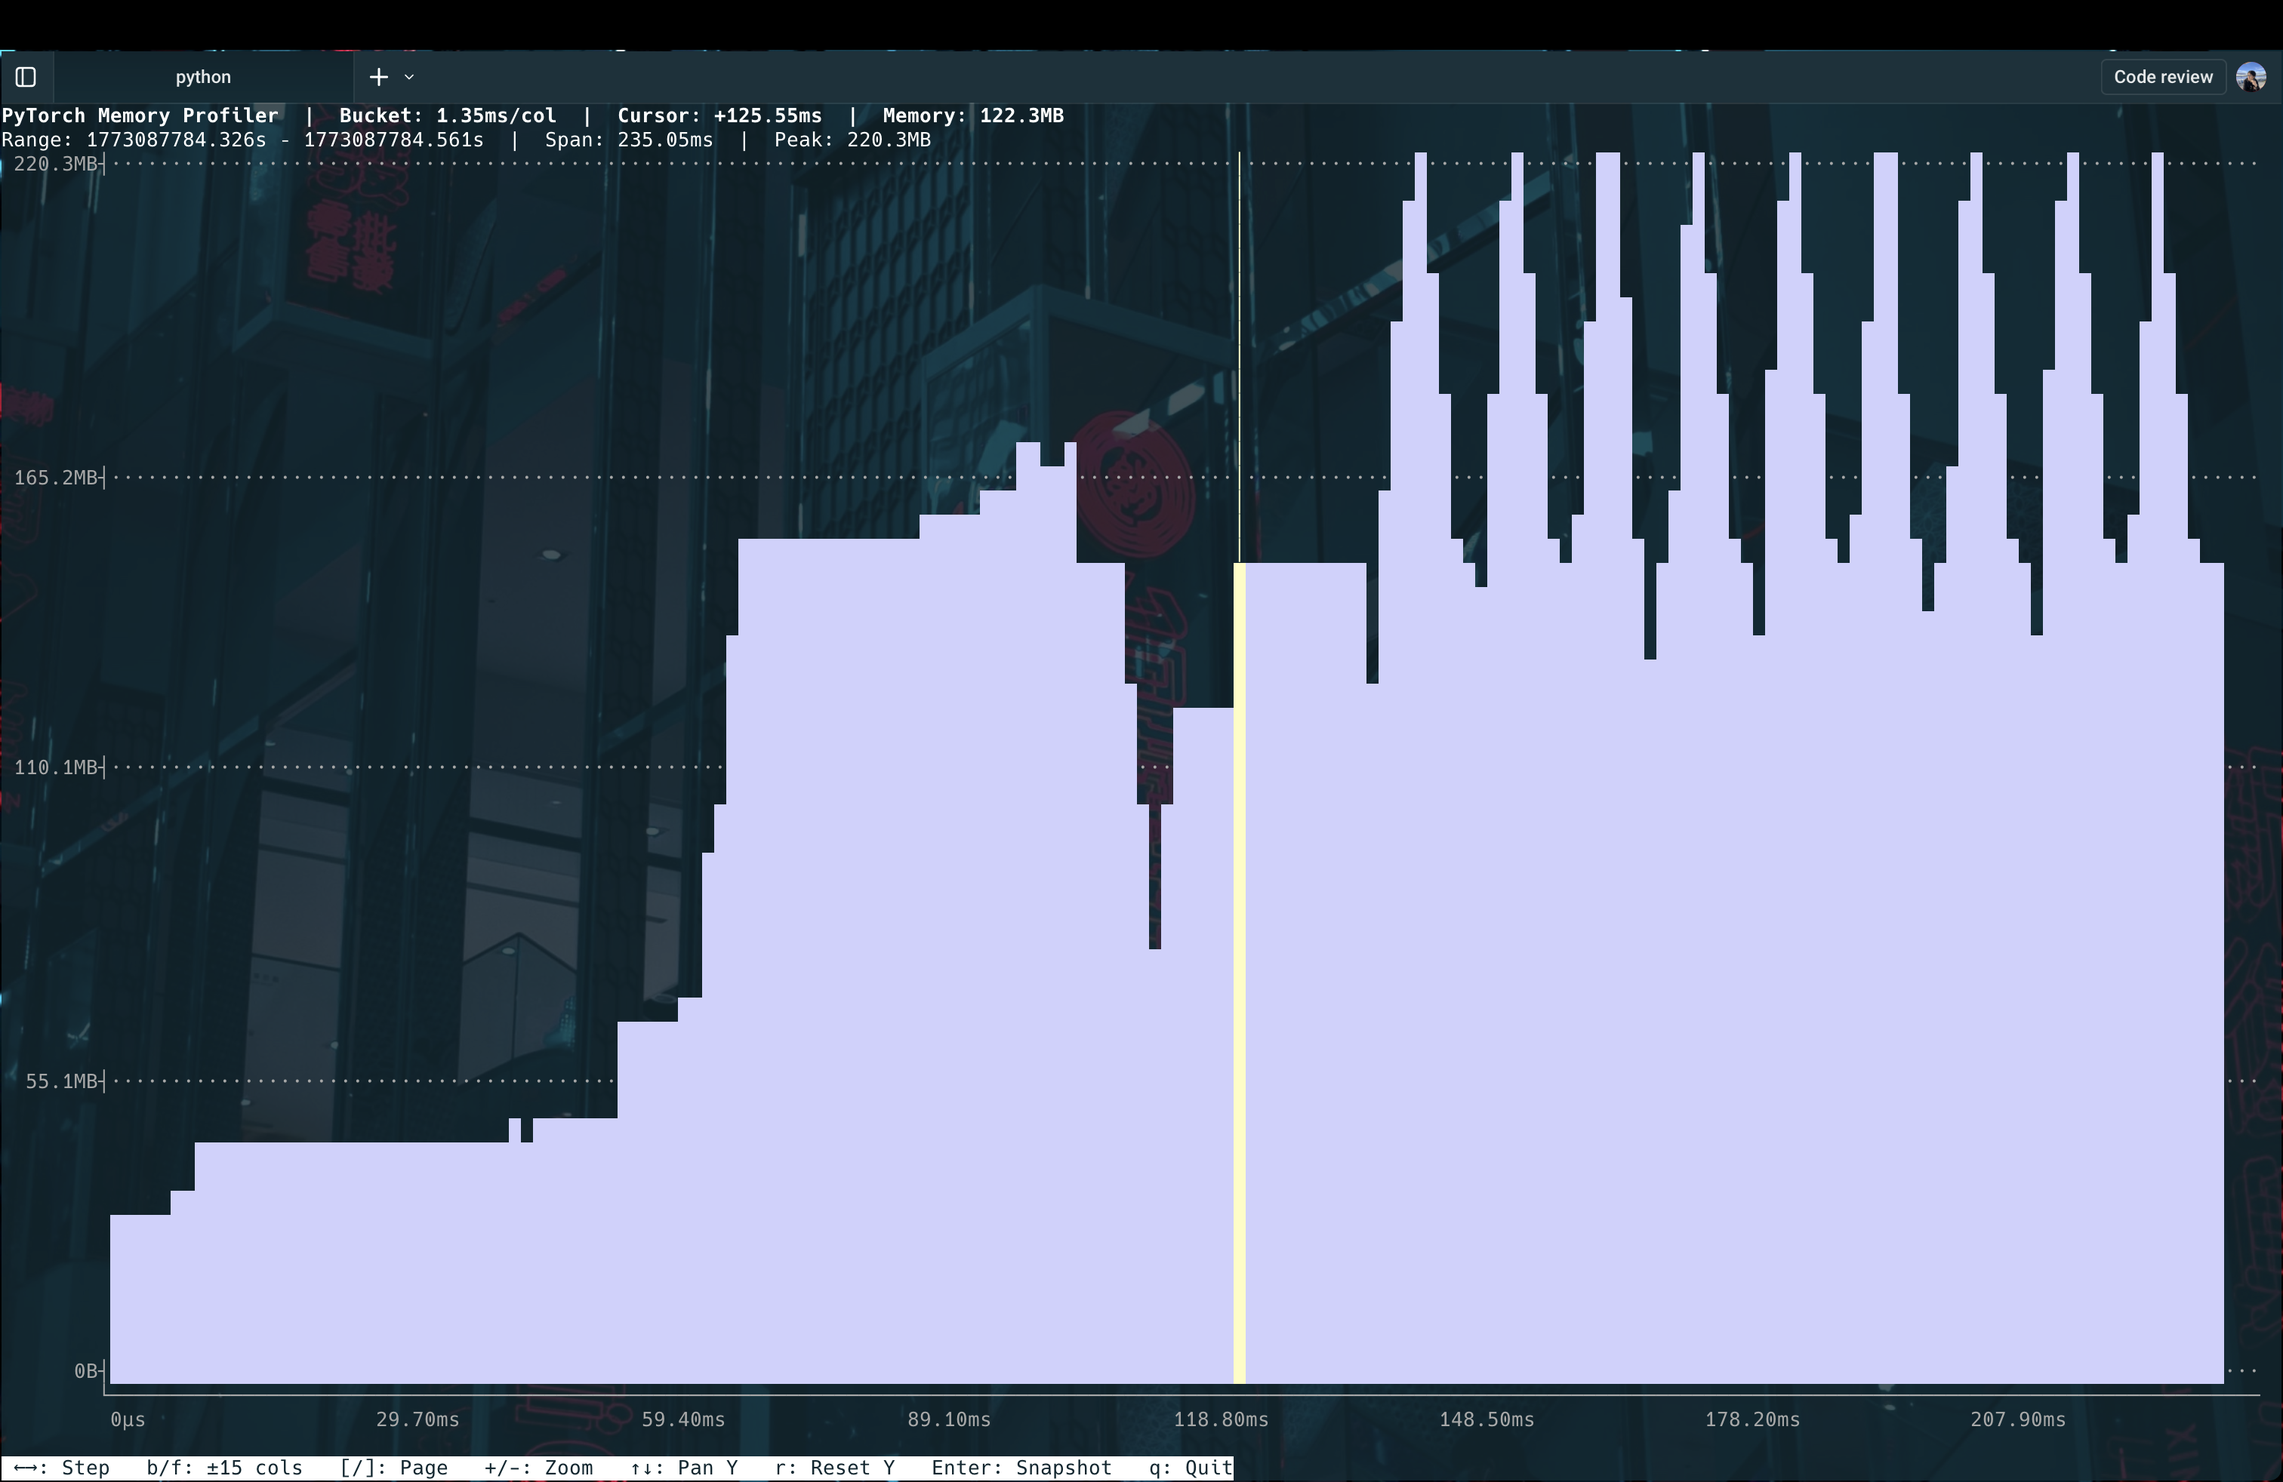
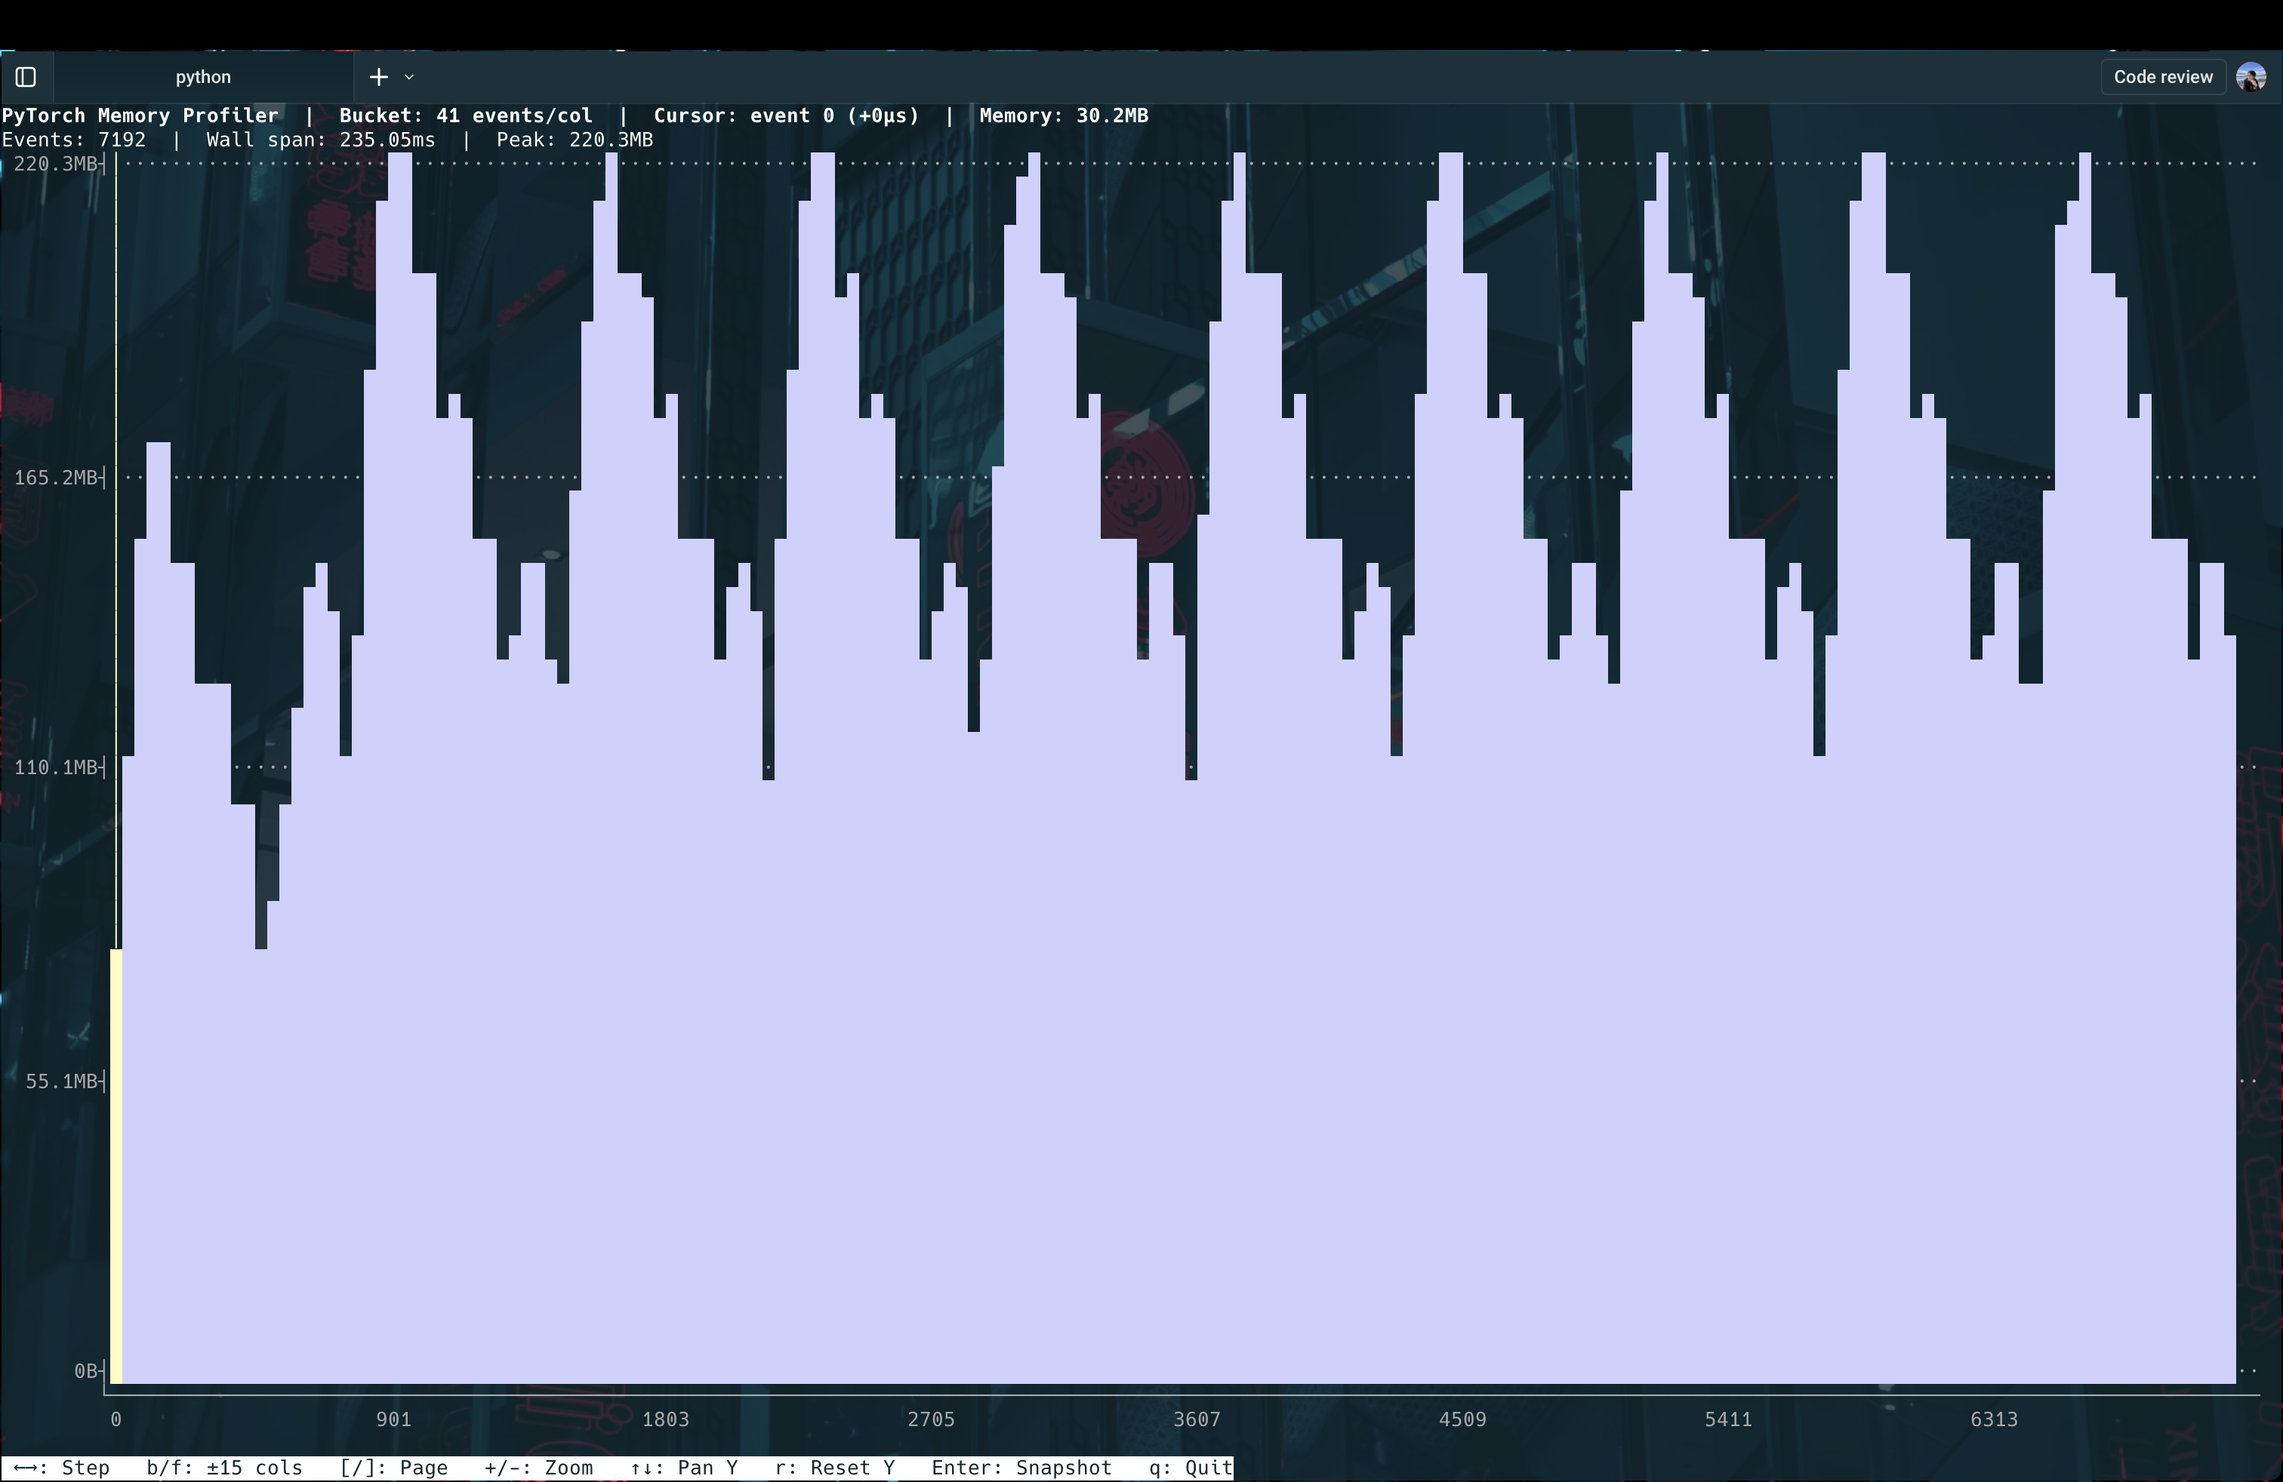
fix

diff --git a/memory_profiler_cli.py b/memory_profiler_cli.py
@@ -60,16 +60,22 @@ class MemoryProfileData:
     source file's mtime changes.
     """
 
-    CACHE_VERSION = 3
+    CACHE_VERSION = 5
 
     def __init__(self, path: str):
         self.path = path
         self.allocations: list = []
+        # timeline_times  = event indices 0, 1, 2, … (like PyTorch's JS viz)
+        # timeline_times_us = corresponding wall-clock timestamps in µs (for display)
         self.timeline_times: list = []
+        self.timeline_times_us: list = []
         self.timeline_memory: list = []
-        self.min_time: int = 0
-        self.max_time: int = 0
+        self.min_time: int = 0   # always 0 (first event index)
+        self.max_time: int = 0   # N-1 (last event index)
         self.max_memory: int = 0
+        self.initial_memory: int = 0
+        self.wall_min_us: int = 0   # actual wall-clock start (µs) for display
+        self.wall_max_us: int = 0   # actual wall-clock end (µs) for display
         self.from_cache: bool = False
 
         cache_path = self._cache_path()
@@ -98,12 +104,16 @@ class MemoryProfileData:
                 return False
             if cache.get('source_mtime') != src_mtime:
                 return False
-            self.allocations    = cache['allocations']
-            self.timeline_times = cache['timeline_times']
-            self.timeline_memory= cache['timeline_memory']
-            self.min_time       = cache['min_time']
-            self.max_time       = cache['max_time']
-            self.max_memory     = cache['max_memory']
+            self.allocations       = cache['allocations']
+            self.timeline_times    = cache['timeline_times']
+            self.timeline_times_us = cache['timeline_times_us']
+            self.timeline_memory   = cache['timeline_memory']
+            self.min_time          = cache['min_time']
+            self.max_time          = cache['max_time']
+            self.max_memory        = cache['max_memory']
+            self.initial_memory    = cache['initial_memory']
+            self.wall_min_us       = cache['wall_min_us']
+            self.wall_max_us       = cache['wall_max_us']
             return True
         except Exception:
             return False
@@ -113,12 +123,16 @@ class MemoryProfileData:
             cache = {
                 'version':      self.CACHE_VERSION,
                 'source_mtime': os.path.getmtime(self.path),
-                'allocations':  self.allocations,
-                'timeline_times':  self.timeline_times,
-                'timeline_memory': self.timeline_memory,
-                'min_time':  self.min_time,
-                'max_time':  self.max_time,
-                'max_memory': self.max_memory,
+                'allocations':      self.allocations,
+                'timeline_times':   self.timeline_times,
+                'timeline_times_us': self.timeline_times_us,
+                'timeline_memory':  self.timeline_memory,
+                'min_time':         self.min_time,
+                'max_time':         self.max_time,
+                'max_memory':       self.max_memory,
+                'initial_memory':   self.initial_memory,
+                'wall_min_us':      self.wall_min_us,
+                'wall_max_us':      self.wall_max_us,
             }
             with open(cache_path, 'wb') as f:
                 pickle.dump(cache, f)
@@ -134,18 +148,17 @@ class MemoryProfileData:
             if flat:
                 device_traces = [flat]
 
-        # Collect alloc and free_requested events only.
-        # PyTorch caching-allocator lifecycle per tensor:
+        # Collect alloc and free_completed events, matching PyTorch's MemoryViz.js:
         #   alloc          → tensor carved from cache pool  (+size to allocated)
-        #   free_requested → Python releases tensor          (-size from allocated)
-        #   free_completed → block returned to CUDA driver  (cache-layer event, skip)
+        #   free_completed → block returned to CUDA pool    (-size from allocated)
+        # (free_requested is intentionally skipped, matching the JS behaviour.)
         events = []
         synthetic_time = 0
 
         for device_idx, trace in enumerate(device_traces):
             for event in trace:
                 action = event.get('action', '')
-                if action not in ('alloc', 'free_requested'):
+                if action not in ('alloc', 'free_completed'):
                     continue
                 size   = event.get('size', 0)
                 addr   = event.get('addr', 0)
@@ -164,6 +177,7 @@ class MemoryProfileData:
         # ── Establish baseline from segments ──────────────────────────────────
         # `segments` is the ground-truth final state.  Derive initial_memory so
         # that replaying the trace from it lands exactly on final_allocated.
+        # We use b['size'] (allocator-rounded) consistently with event sizes.
         def _seg_allocated(seg):
             if 'allocated_size' in seg:
                 return seg['allocated_size']
@@ -174,30 +188,44 @@ class MemoryProfileData:
         net_from_trace  = sum(size if act == 'alloc' else -size
                               for _, _, size, _, _, act in events)
         initial_memory  = max(0, final_allocated - net_from_trace)
+        self.initial_memory = initial_memory
 
-        # ── Replay ────────────────────────────────────────────────────────────
+        # ── Replay using event INDEX as the x-axis (matching PyTorch JS) ──────
+        # PyTorch's MemoryViz.js uses a discrete "timestep" counter (one per
+        # event) rather than wall-clock time.  This gives uniform horizontal
+        # spacing so forward/backward passes look proportional regardless of
+        # the actual elapsed time of each operation.
         active: dict = {}   # addr -> Allocation  (in-trace allocs only)
         current_memory = initial_memory
 
-        for time_us, addr, size, frames, device, action in events:
+        # Record the state BEFORE the first event (event index -1) so the
+        # initial baseline is visible at the very left of the chart.
+        self.timeline_times.append(-1)
+        self.timeline_times_us.append(events[0][0])   # wall time of first event
+        self.timeline_memory.append(initial_memory)
+
+        for event_idx, (time_us, addr, size, frames, device, action) in enumerate(events):
             if action == 'alloc':
-                alloc = Allocation(addr, size, time_us, frames, device)
+                alloc = Allocation(addr, size, event_idx, frames, device)
                 active[addr] = alloc
                 self.allocations.append(alloc)
                 current_memory += size
-            elif action == 'free_requested':
+            elif action == 'free_completed':
                 if addr in active:
-                    active[addr].time_free = time_us
+                    active[addr].time_free = event_idx
                     del active[addr]
                 current_memory = max(0, current_memory - size)
 
-            self.timeline_times.append(time_us)
+            self.timeline_times.append(event_idx)
+            self.timeline_times_us.append(time_us)
             self.timeline_memory.append(current_memory)
 
         if self.timeline_times:
-            self.min_time  = self.timeline_times[0]
-            self.max_time  = self.timeline_times[-1]
-            self.max_memory = max(self.timeline_memory)
+            self.min_time    = self.timeline_times[0]   # -1 (the baseline point)
+            self.max_time    = self.timeline_times[-1]  # N-1
+            self.max_memory  = max(self.initial_memory, max(self.timeline_memory))
+            self.wall_min_us = self.timeline_times_us[0]
+            self.wall_max_us = self.timeline_times_us[-1]
 
         # ── Reconstruct pre-recording allocations from segments ───────────────
         # active_allocated blocks whose address is not in `active` (in-trace
@@ -205,10 +233,9 @@ class MemoryProfileData:
         # _record_memory_history() started.  We create synthetic Allocation
         # objects for them so the detail view shows their frames and sizes.
         #
-        # Block address: taken from block['addr'] if present (newer PyTorch),
-        # otherwise computed as segment base + cumulative block offset.
+        # Block address field: newer PyTorch uses 'address' (not 'addr').
         in_trace_addrs = set(active.keys())
-        pre_trace_time = self.min_time - 1   # guaranteed < any real event time
+        pre_trace_time = self.min_time   # event index -1, guaranteed < 0
 
         for seg in raw.get('segments', []):
             device_idx = seg.get('device', 0)
@@ -218,7 +245,7 @@ class MemoryProfileData:
                 size  = block.get('size', 0)
                 state = block.get('state', '')
                 if state == 'active_allocated':
-                    addr   = block.get('addr', base_addr + offset)
+                    addr   = block.get('address', block.get('addr', base_addr + offset))
                     frames = block.get('frames', [])
                     if addr not in in_trace_addrs:
                         alloc = Allocation(addr, size, pre_trace_time, frames, device_idx)
@@ -230,7 +257,7 @@ class MemoryProfileData:
         if not self.timeline_times:
             return 0
         idx = bisect_right(self.timeline_times, time_us) - 1
-        return self.timeline_memory[idx] if idx >= 0 else 0
+        return self.timeline_memory[idx] if idx >= 0 else self.initial_memory
 
     def get_bucket_max_memory(self, start_us: float, end_us: float) -> int:
         """Peak memory in the half-open interval [start_us, end_us)."""
@@ -239,7 +266,7 @@ class MemoryProfileData:
         i0 = bisect_left(self.timeline_times, start_us)
         i1 = bisect_left(self.timeline_times, end_us)
         # Include the memory level just before the bucket starts
-        mem_before = self.timeline_memory[i0 - 1] if i0 > 0 else 0
+        mem_before = self.timeline_memory[i0 - 1] if i0 > 0 else self.initial_memory
         candidates = [mem_before] + self.timeline_memory[i0:i1]
         return max(candidates)
 
@@ -513,19 +540,27 @@ class TimelineView:
         y_range = max(1, y_top - y_bottom)
 
         # Header
-        cur_time = self.current_time_us()
-        cur_mem = self.data.get_memory_at(cur_time)
-        rel_time = cur_time - self.data.min_time
-        total_span = self.data.max_time - self.data.min_time
+        cur_event = int(self.current_time_us())   # event index (-1 = baseline)
+        cur_mem   = self.data.get_memory_at(cur_event)
+
+        # Wall-clock time at the cursor position
+        tus = self.data.timeline_times_us
+        if tus:
+            clamp = max(0, min(cur_event, len(tus) - 1))
+            wall_cursor_us = tus[clamp]
+            rel_us = wall_cursor_us - tus[0]
+        else:
+            rel_us = 0
+        wall_span_us = self.data.wall_max_us - self.data.wall_min_us
+        n_events = self.data.max_time + 1   # event indices 0 … max_time
 
         hdr1 = (f"PyTorch Memory Profiler  |  "
-                f"Bucket: {fmt_time(self.bucket_us)}/col  |  "
-                f"Cursor: +{fmt_time(rel_time)}  |  "
+                f"Bucket: {self.bucket_us} events/col  |  "
+                f"Cursor: event {max(0, cur_event)} (+{fmt_time(rel_us)})  |  "
                 f"Memory: {fmt_bytes(cur_mem)}")
         y_range_s = (f"Y: {fmt_bytes(y_bottom)} – {fmt_bytes(y_top)}"
                      if y_bottom > 0 else f"Peak: {fmt_bytes(self.data.max_memory)}")
-        hdr2 = (f"Range: {fmt_time(self.data.min_time)} – {fmt_time(self.data.max_time)}  |  "
-                f"Span: {fmt_time(total_span)}  |  "
+        hdr2 = (f"Events: {n_events}  |  Wall span: {fmt_time(wall_span_us)}  |  "
                 f"{y_range_s}")
         safe_addstr(stdscr, 0, 0, hdr1[:width - 1], curses.A_BOLD)
         safe_addstr(stdscr, 1, 0, hdr2[:width - 1])
@@ -581,7 +616,7 @@ class TimelineView:
         axis_row = HEADER + chart_rows
         safe_addstr(stdscr, axis_row, 0, ' ' * (Y_AXIS_W - 1) + '└' + '─' * min(chart_cols, width - Y_AXIS_W - 1), curses.A_DIM)
 
-        # Time labels along x axis (skip out-of-range/empty columns)
+        # Event-index labels along x axis (skip out-of-range/empty columns)
         n_labels = max(2, min(8, chart_cols // 12))
         for i in range(n_labels + 1):
             col = int(i * (chart_cols - 1) / n_labels)
@@ -589,8 +624,7 @@ class TimelineView:
                 b_start = buckets[col][0]
                 if b_start is None:
                     continue
-                t = b_start - self.data.min_time
-                label = fmt_time(t)
+                label = str(max(0, int(b_start)))   # event index
                 screen_col = Y_AXIS_W + col
                 if screen_col + len(label) < width:
                     safe_addstr(stdscr, axis_row + 1, screen_col, label, curses.A_DIM)
@@ -735,9 +769,17 @@ class SnapshotView:
         total_mem = sum(a.size for a in self.allocations)
         grand_total = total_mem or 1
 
-        # Header
-        wall = datetime.datetime.fromtimestamp(self.time_us / 1e6).strftime('%Y-%m-%d %H:%M:%S.%f')
-        hdr = (f"Snapshot @ {wall}  (+{fmt_time(self.time_us - self.data.min_time)} from start)  |  "
+        # Header – self.time_us is now an event index; look up the wall-clock time
+        event_idx = int(self.time_us)
+        tus = self.data.timeline_times_us
+        if tus and 0 <= event_idx < len(tus):
+            wall_us  = tus[event_idx]
+            rel_us   = wall_us - tus[0]
+            wall     = datetime.datetime.fromtimestamp(wall_us / 1e6).strftime('%Y-%m-%d %H:%M:%S.%f')
+            time_tag = f"event {event_idx} / {wall} (+{fmt_time(rel_us)})"
+        else:
+            time_tag = f"event {max(0, event_idx)} (pre-recording baseline)"
+        hdr = (f"Snapshot @ {time_tag}  |  "
                f"{len(self.allocations)} allocs  |  {fmt_bytes(total_mem)} total")
         safe_addstr(stdscr, 0, 0, hdr[:width - 1], curses.A_BOLD)
 
